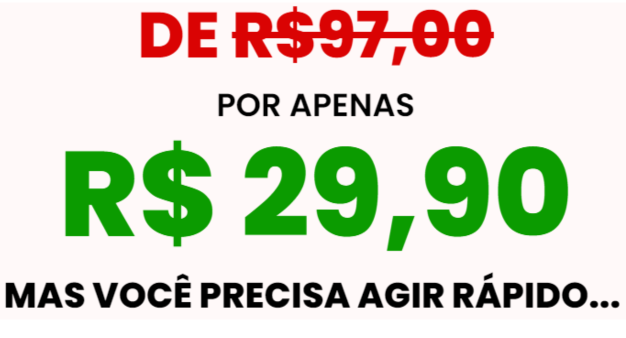
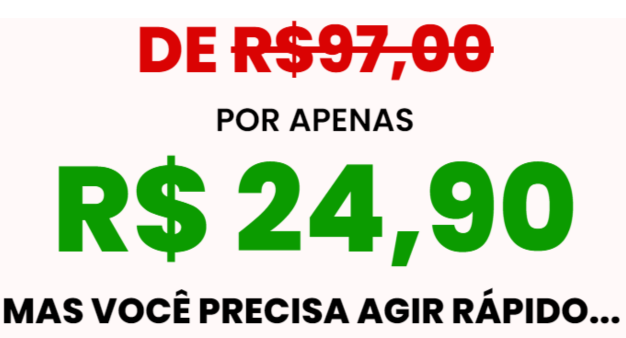
Add files via upload

diff --git a/index.html b/index.html
@@ -513,7 +513,7 @@ var pysOptions = {"staticEvents":{"facebook":{"init_event":[{"delay":0,"type":"s
                                 <div class="elementor-widget-container"> 
                                     <p><strong>A proposta é simples e clara…</strong></p>
                                     <p>O guia mais eficaz e completo que você já viu. E por um valor especial que cabe no seu bolso.</p>
-                                    <p><strong>HOJE VOCÊ ESTÁ TENDO A CHANCE DE LEVAR TUDO ISSO POR APENAS R$ 29,90</strong></p>
+                                    <p><strong>HOJE VOCÊ ESTÁ TENDO A CHANCE DE LEVAR TUDO ISSO POR APENAS R$ 24,90</strong></p>
                                     <p>Sem pegadinhas, pagamento único e acesso vitalício.</p> 
                                 </div>                                 
                             </div>                             
@@ -536,7 +536,7 @@ var pysOptions = {"staticEvents":{"facebook":{"init_event":[{"delay":0,"type":"s
                             <div class="elementor-element elementor-element-45239151 elementor-widget elementor-widget-heading" data-id="45239151" data-element_type="widget" data-widget_type="heading.default"> 
                                 <div class="elementor-widget-container"> 
                                     <h2 class="elementor-heading-title elementor-size-default">Garanta tudo isso
-por apenas R$ 29,90 enquanto é tempo.</h2> 
+por apenas R$ 24,90 enquanto é tempo.</h2> 
                                 </div>                                 
                             </div>                             
                             <div class="elementor-element elementor-element-599b7072 elementor-widget elementor-widget-image" data-id="599b7072" data-element_type="widget" data-widget_type="image.default"> 
@@ -596,12 +596,12 @@ por apenas R$ 29,90 enquanto é tempo.</h2>
                             </div>                             
                             <div class="elementor-element elementor-element-396b3314 elementor-widget elementor-widget-heading" data-id="396b3314" data-element_type="widget" data-widget_type="heading.default"> 
                                 <div class="elementor-widget-container"> 
-                                    <h2 class="elementor-heading-title elementor-size-default">Por que somente R$29,90?</h2> 
+                                    <h2 class="elementor-heading-title elementor-size-default">Por que somente R$24,90?</h2> 
                                 </div>                                 
                             </div>                             
                             <div class="elementor-element elementor-element-74ab3265 elementor-widget elementor-widget-text-editor" data-id="74ab3265" data-element_type="widget" data-widget_type="text-editor.default"> 
                                 <div class="elementor-widget-container"> 
-                                    <p>Se você prestar atenção, o valor de R$ 29,90 não parece ser um valor aleatório para cobrar em um produto (e de fato não é).</p>
+                                    <p>Se você prestar atenção, o valor de R$ 24,90 não parece ser um valor aleatório para cobrar em um produto (e de fato não é).</p>
                                     <p><strong>Razão número 01:</strong> O valor não se torna um obstáculo para ninguém.</p>
                                     <p><strong>Razão número 02:</strong> Proteção contra curiosos.</p>
                                     <p>Mesmo que o investimento seja baixo, o simples fato de cobrar já afasta curiosos em busca de &ldquo;soluções gratuitas&rdquo; na internet.</p>
